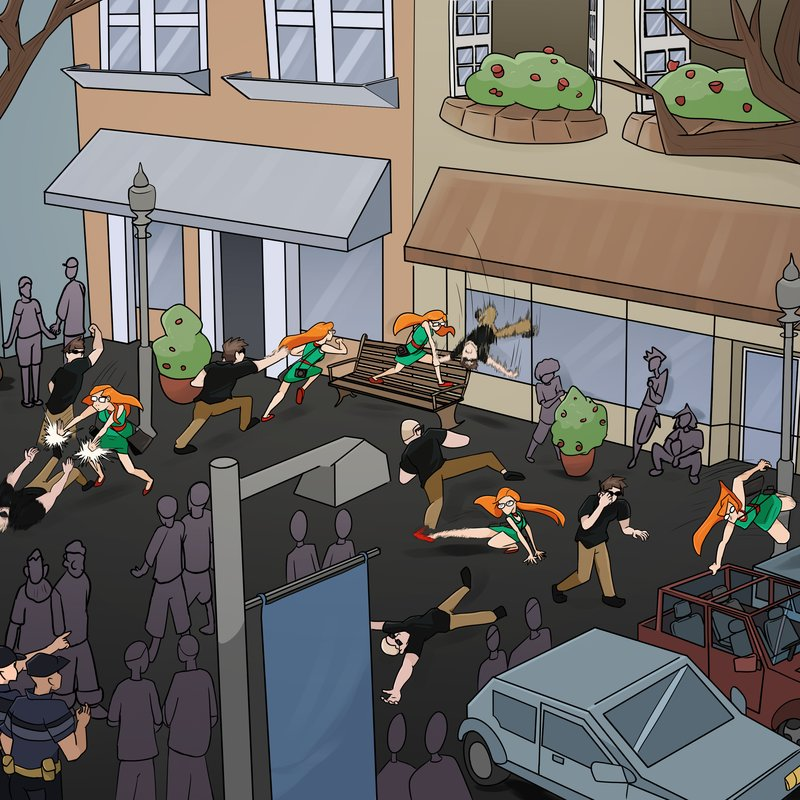
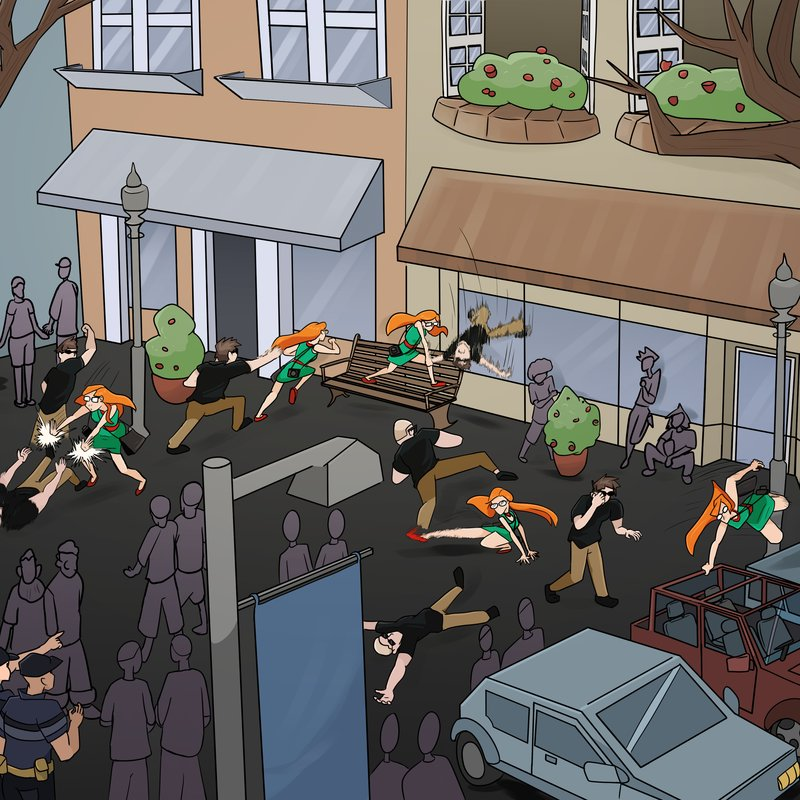
Update portfolio

diff --git a/latest/The Guardian Press Works.html b/latest/The Guardian Press Works.html
@@ -128,7 +128,7 @@
       </button>
 
       <button class="cell tile" data-full="/art/The%20Guardian%20Press%20Works/GP.p30_jp.jpg">
-        <img alt="GP.p30_jp" src="/art/The%20Guardian%20Press%20Works/GP.p30_jp.jpg" loading="lazy">
+        <img alt="GP.p30_jp" src="/art/The%20Guardian%20Press%20Works/thumbnails/GP.p30_jp.jpg" loading="lazy">
       </button>
 
       <button class="cell tile" data-full="/art/The%20Guardian%20Press%20Works/TPG-12-Inks-P16.jpg">
@@ -136,11 +136,11 @@
       </button>
 
       <button class="cell tile" data-full="/art/The%20Guardian%20Press%20Works/TPG-I3-INKS%20%2B%20COLOR.jpg">
-        <img alt="TPG-I3-INKS + COLOR" src="/art/The%20Guardian%20Press%20Works/TPG-I3-INKS%20%2B%20COLOR.jpg" loading="lazy">
+        <img alt="TPG-I3-INKS + COLOR" src="/art/The%20Guardian%20Press%20Works/thumbnails/TPG-I3-INKS%20%2B%20COLOR.jpg" loading="lazy">
       </button>
 
       <button class="cell tile" data-full="/art/The%20Guardian%20Press%20Works/TGP%20pg15%20COLOR.jpg">
-        <img alt="TGP pg15 COLOR" src="/art/The%20Guardian%20Press%20Works/TGP%20pg15%20COLOR.jpg" loading="lazy">
+        <img alt="TGP pg15 COLOR" src="/art/The%20Guardian%20Press%20Works/thumbnails/TGP%20pg15%20COLOR.jpg" loading="lazy">
       </button>
 
     </div>
